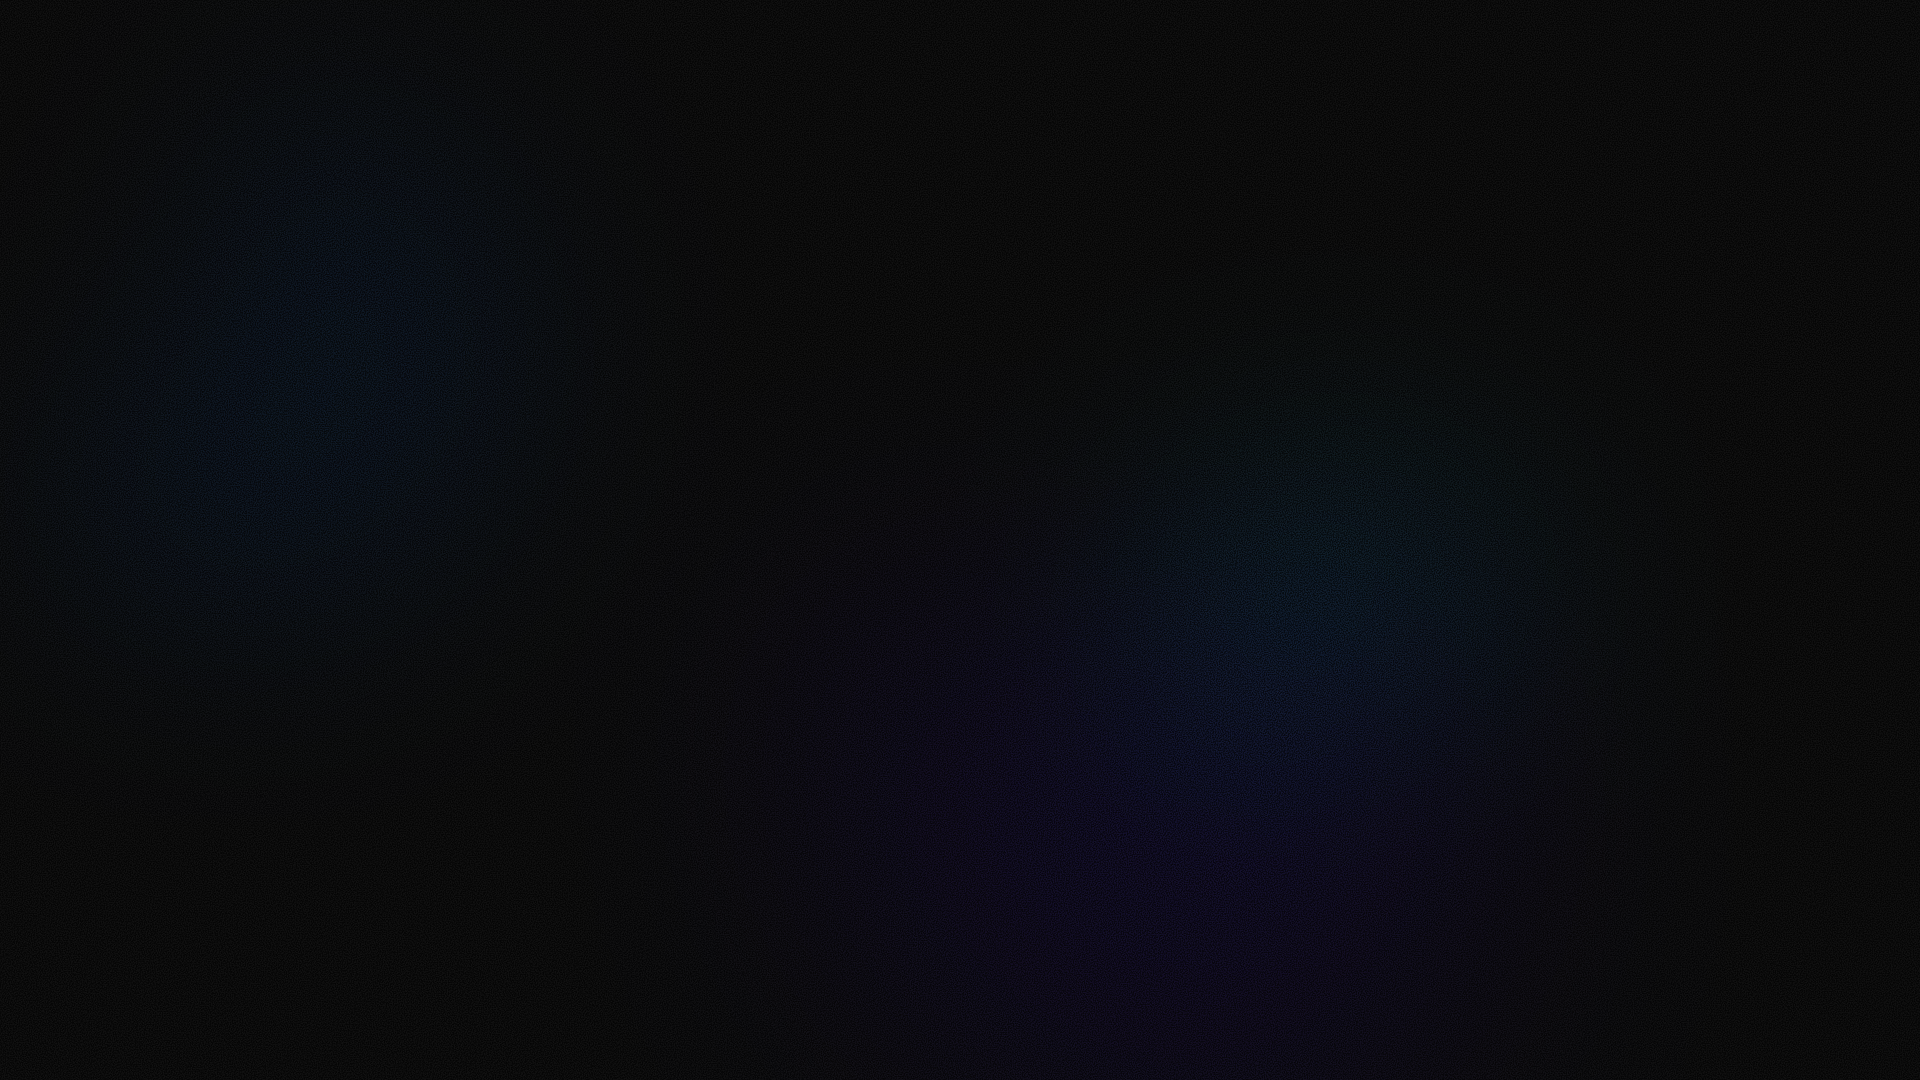
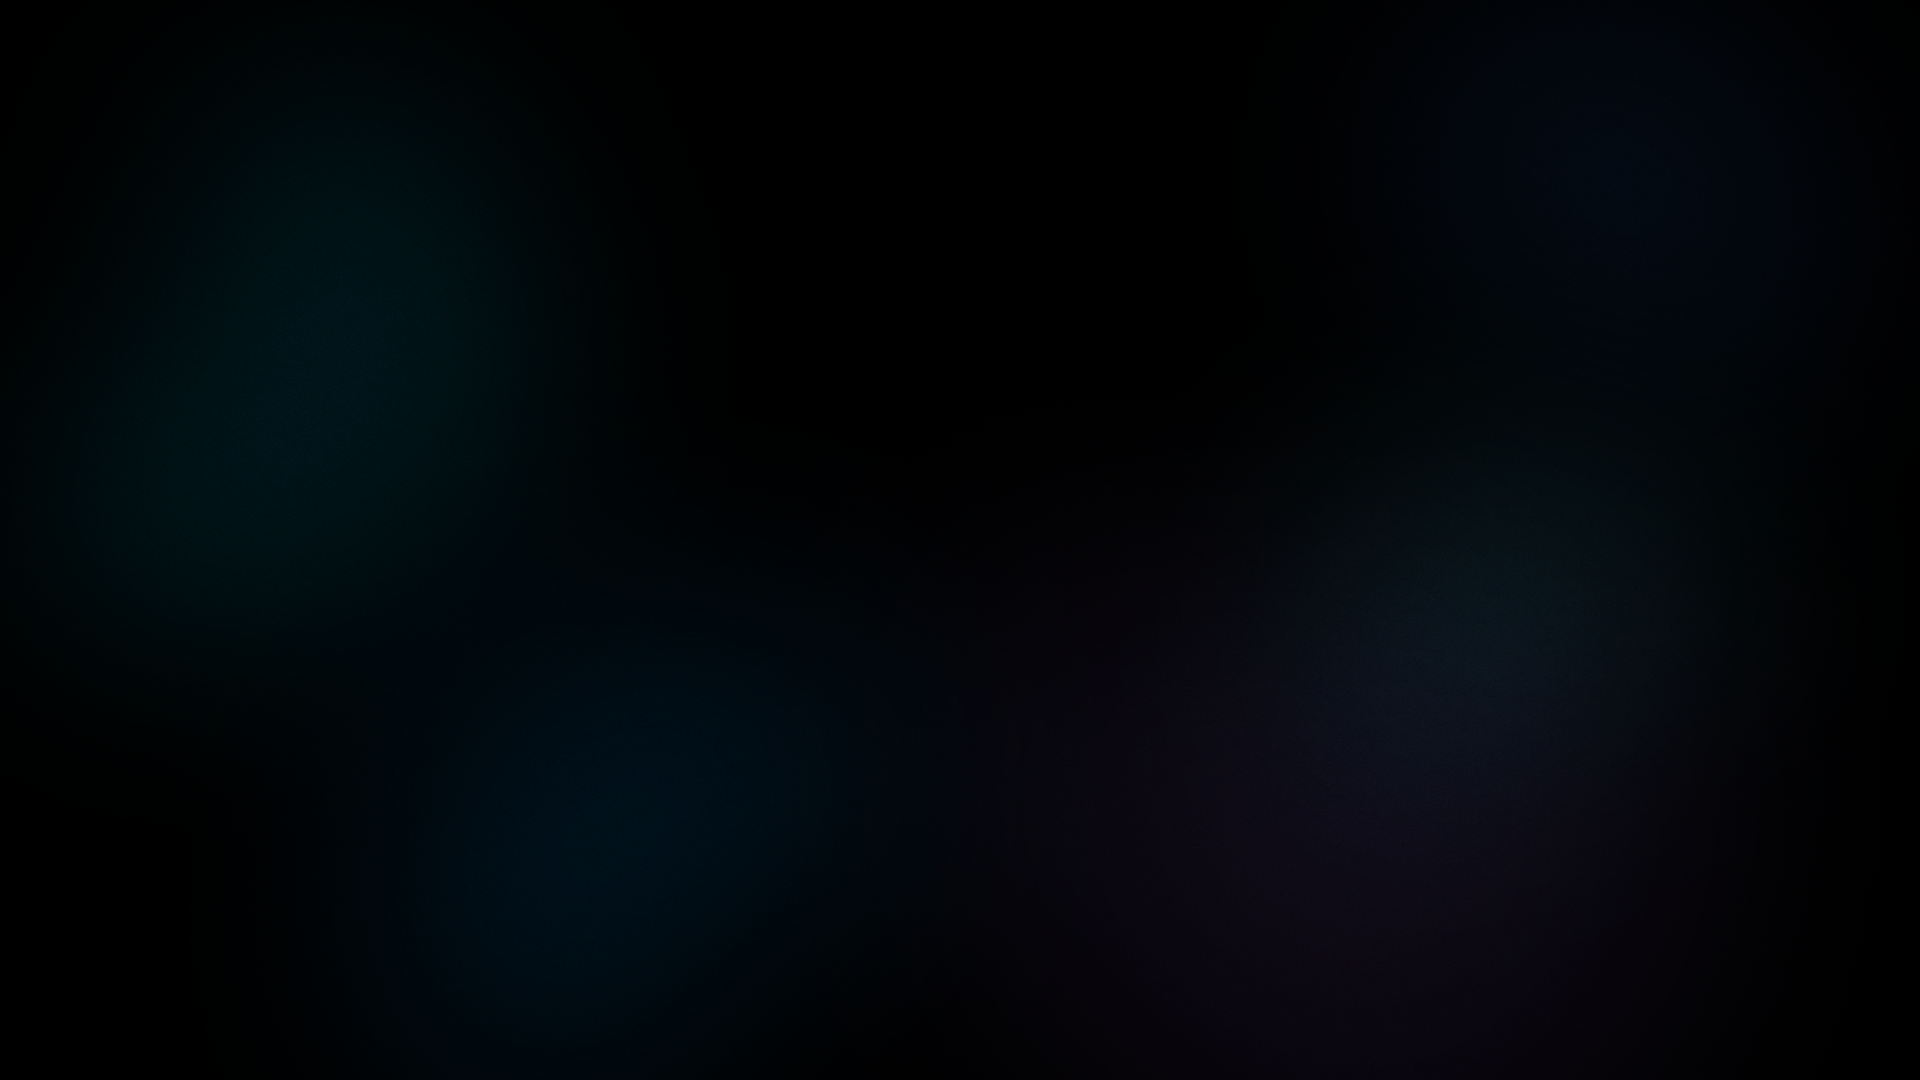
background changed, new logic for saving

Changed region(s): [[0.5, 0.4278, 0.6875, 1.0]]

diff --git a/src/components/shared/post_details_window.tsx b/src/components/shared/post_details_window.tsx
@@ -5,7 +5,7 @@ import { X } from 'lucide-react';
 import { useUser } from '../../hooks/use-roles';
 import { PostDetailsLeftPanel } from './post_details_left_panel';
 import { PostDetailsRightPanel } from './post_details_right_panel';
-import { usePost, useUpdatePost, usePatchPost, useDeletePost } from '@/hooks/usePosts';
+import { usePost, useUpdatePost, useSilentUpdatePost, usePatchPost, useDeletePost } from '@/hooks/usePosts';
 import { useAddComment, useUpdateCommentStatus, useDeleteComment } from '@/hooks/usePosts';
 import { format } from 'date-fns';
 import { ru } from 'date-fns/locale';
@@ -266,10 +266,12 @@ export const PostDetailsWindow = ({ onClose, postId }: PostDetailsWindowProps) =
   const tagDropdownRef = useRef<HTMLDivElement>(null);
   const datePickerRef = useRef<HTMLDivElement>(null);
   const overlayPointerDownRef = useRef(false);
+  const initializedPostIdRef = useRef<number | null>(null);
 
   const isAdminOrSMM = !!(user?.admin_role || user?.SMM_role);
 
   const updatePost = useUpdatePost();
+  const silentUpdatePost = useSilentUpdatePost();
   const patchPost = usePatchPost();
   const deletePostMut = useDeletePost();
   const addCommentMut = useAddComment();
@@ -284,7 +286,9 @@ export const PostDetailsWindow = ({ onClose, postId }: PostDetailsWindowProps) =
     if (!post) return;
     const prev = document.body.style.overflow;
     document.body.style.overflow = 'hidden';
-    return () => { document.body.style.overflow = prev; };
+    return () => {
+      document.body.style.overflow = prev;
+    };
   }, [post]);
 
   useEffect(() => {
@@ -310,43 +314,44 @@ export const PostDetailsWindow = ({ onClose, postId }: PostDetailsWindowProps) =
 
     const tasksFromPost = buildTasksFromPost(post);
     const social = extractSocialLinks(post);
+    const isFirstInitForThisPost = initializedPostIdRef.current !== post.post_id;
 
-    setTasks(tasksFromPost);
-    setOriginalTasks(cloneTasks(tasksFromPost));
-    setSocialLinks(social);
-    setOriginalSocialLinks({ ...social });
-    setEditedDeadline(post.post_deadline ? new Date(post.post_deadline) : null);
-    setEditedTitle(post.post_title || '');
-    setEditedDescription(post.post_description || '');
-    setEditedTzLink(post.tz_link || '');
-    setSelectedTasks(TASK_CONFIG.map(cfg => (post[cfg.needsKey] as boolean) || false));
-    setSelectedTags(post.tags || []);
     setLocalIsPublished(post.is_published);
     setLocalApprovedBy(post.approved_by || null);
     setLocalSocialLinks(social);
-  }, [post]);
 
-  useEffect(() => {
-    if (!isEditing || !post) return;
+    if (isFirstInitForThisPost) {
+      initializedPostIdRef.current = post.post_id;
 
-    setTasks(prevTasks =>
-      TASK_CONFIG
-        .filter(cfg => selectedTasks[cfg.id - 1])
-        .map(cfg =>
-          prevTasks.find(t => t.id === cfg.id) ?? {
-            id: cfg.id,
-            name: cfg.name,
-            label: cfg.label,
-            link: '',
-            required: true,
-            role: cfg.role,
-            linkKey: cfg.linkKey,
-            comments: [],
-            newCommentText: '',
-          },
-        ),
-    );
-  }, [selectedTasks, isEditing, post]);
+      setTasks(tasksFromPost);
+      setOriginalTasks(cloneTasks(tasksFromPost));
+      setSocialLinks(social);
+      setOriginalSocialLinks({ ...social });
+      setEditedDeadline(post.post_deadline ? new Date(post.post_deadline) : null);
+      setEditedTitle(post.post_title || '');
+      setEditedDescription(post.post_description || '');
+      setEditedTzLink(post.tz_link || '');
+      setSelectedTasks(TASK_CONFIG.map(cfg => (post[cfg.needsKey] as boolean) || false));
+      setSelectedTags(post.tags || []);
+      return;
+    }
+
+    if (!isEditing) {
+      setTasks(tasksFromPost);
+      setOriginalTasks(cloneTasks(tasksFromPost));
+      setSocialLinks(social);
+      setOriginalSocialLinks({ ...social });
+      setEditedDeadline(post.post_deadline ? new Date(post.post_deadline) : null);
+      setEditedTitle(post.post_title || '');
+      setEditedDescription(post.post_description || '');
+      setEditedTzLink(post.tz_link || '');
+      setSelectedTasks(TASK_CONFIG.map(cfg => (post[cfg.needsKey] as boolean) || false));
+      setSelectedTags(post.tags || []);
+      return;
+    }
+
+    setOriginalTasks(cloneTasks(tasksFromPost));
+  }, [post, isEditing]);
 
   const filteredTags = useMemo(
     () =>
@@ -424,16 +429,16 @@ export const PostDetailsWindow = ({ onClose, postId }: PostDetailsWindowProps) =
         prev.map(t => (t.id === taskId ? { ...t, link: taskLink } : t)),
       );
 
-      await updatePost.mutateAsync({
+      setOriginalTasks(prev =>
+        prev.map(t => (t.id === taskId ? { ...t, link: taskLink } : t)),
+      );
+
+      await silentUpdatePost.mutateAsync({
         postId: post.post_id,
         data: {
           [task.linkKey]: taskLink,
         },
       });
-
-      setOriginalTasks(prev =>
-        prev.map(t => (t.id === taskId ? { ...t, link: taskLink } : t)),
-      );
 
       setPendingFiles(prev => {
         const current = prev[taskId] || [];
@@ -479,7 +484,7 @@ export const PostDetailsWindow = ({ onClose, postId }: PostDetailsWindowProps) =
     editedTitle,
     editedDeadline,
     setImagesToCache,
-    updatePost,
+    silentUpdatePost,
   ]);
 
   const handleFilesCleared = useCallback((taskId: number) => {
@@ -645,8 +650,16 @@ export const PostDetailsWindow = ({ onClose, postId }: PostDetailsWindowProps) =
       setIsSaving(false);
     }
   }, [
-    post, editedTitle, editedDescription, editedTzLink, editedDeadline,
-    selectedTasks, selectedTags, tasks, updatePost, renameCacheKey,
+    post,
+    editedTitle,
+    editedDescription,
+    editedTzLink,
+    editedDeadline,
+    selectedTasks,
+    selectedTags,
+    tasks,
+    updatePost,
+    renameCacheKey,
   ]);
 
   const handleSaveChanges = useCallback(async () => {

diff --git a/src/app/page.tsx b/src/app/page.tsx
@@ -100,6 +100,13 @@ export default function HomePage() {
 
   const loading = postsLoading || tasksLoading;
 
+  const scrollToTop = () => {
+    window.scrollTo({
+      top: 0,
+      behavior: 'smooth',
+    });
+  };
+
   const handlePostsClick = () => {
     if (showPosts) {
       if (showTasks) {
@@ -111,6 +118,8 @@ export default function HomePage() {
     } else {
       setShowPosts(true);
     }
+
+    scrollToTop();
   };
 
   const handleTasksClick = () => {
@@ -124,6 +133,18 @@ export default function HomePage() {
     } else {
       setShowTasks(true);
     }
+
+    scrollToTop();
+  };
+
+  const handleIncompleteClick = () => {
+    setShowIncompleteOnly((prev) => !prev);
+    scrollToTop();
+  };
+
+  const handleOverdueClick = () => {
+    setShowOverdueOnly((prev) => !prev);
+    scrollToTop();
   };
 
   const isPostCompleted = (status: string) => ['Завершен', 'Завершено'].includes(status);
@@ -237,6 +258,7 @@ export default function HomePage() {
   const handleRoleSelect = (role: string | null) => {
     setRoleFilter(role);
     setIsRoleDropdownOpen(false);
+    scrollToTop();
   };
 
   if (loading && allPosts.length === 0 && allTasks.length === 0) {
@@ -272,7 +294,7 @@ export default function HomePage() {
         </button>
 
         <button
-          onClick={() => setShowIncompleteOnly(!showIncompleteOnly)}
+          onClick={handleIncompleteClick}
           className={`${styles.filterButton} ${
             showIncompleteOnly ? styles.filterButtonActive : styles.filterButtonInactive
           }`}
@@ -281,7 +303,7 @@ export default function HomePage() {
         </button>
 
         <button
-          onClick={() => setShowOverdueOnly(!showOverdueOnly)}
+          onClick={handleOverdueClick}
           className={`${styles.filterButton} ${
             showOverdueOnly ? styles.filterButtonActive : styles.filterButtonInactive
           }`}
@@ -291,7 +313,10 @@ export default function HomePage() {
 
         <div className={styles.roleDropdown} ref={roleDropdownRef}>
           <button
-            onClick={() => setIsRoleDropdownOpen(!isRoleDropdownOpen)}
+            onClick={() => {
+              setIsRoleDropdownOpen(!isRoleDropdownOpen);
+              scrollToTop();
+            }}
             className={styles.roleDropdownButton}
           >
             <img

diff --git a/src/hooks/usePosts.ts b/src/hooks/usePosts.ts
@@ -130,11 +130,45 @@ export const useUpdatePost = () => {
   });
 };
 
+export const useSilentUpdatePost = () => {
+  const queryClient = useQueryClient();
+
+  return useMutation({
+    mutationFn: async ({ postId, data }: { postId: number; data: any }) => {
+      const res = await fetch('/api/posts/update', {
+        method: 'PUT',
+        headers: { 'Content-Type': 'application/json' },
+        body: JSON.stringify({ postId, data }),
+      });
+
+      if (!res.ok) {
+        const error = await res.json();
+        throw new Error(error.error || 'Ошибка обновления поста');
+      }
+
+      return res.json();
+    },
+    onSuccess: () => {
+      queryClient.invalidateQueries({ queryKey: ['posts'] });
+    },
+  });
+};
+
 export const usePatchPost = () => {
   const queryClient = useQueryClient();
 
   return useMutation({
-    mutationFn: async ({ postId, action, social, link }: { postId: number; action: string; social?: string; link?: string }) => {
+    mutationFn: async ({
+      postId,
+      action,
+      social,
+      link,
+    }: {
+      postId: number;
+      action: string;
+      social?: string;
+      link?: string;
+    }) => {
       const res = await fetch('/api/posts/update', {
         method: 'PATCH',
         headers: { 'Content-Type': 'application/json' },
@@ -182,7 +216,15 @@ export const useAddComment = () => {
   const queryClient = useQueryClient();
 
   return useMutation({
-    mutationFn: async ({ postId, taskTypeId, text }: { postId: number; taskTypeId: number; text: string }) => {
+    mutationFn: async ({
+      postId,
+      taskTypeId,
+      text,
+    }: {
+      postId: number;
+      taskTypeId: number;
+      text: string;
+    }) => {
       const res = await fetch('/api/posts/comments', {
         method: 'POST',
         headers: { 'Content-Type': 'application/json' },
@@ -196,7 +238,7 @@ export const useAddComment = () => {
 
       return res.json();
     },
-    onSuccess: (data, variables) => {
+    onSuccess: (_, variables) => {
       queryClient.invalidateQueries({ queryKey: ['post', variables.postId] });
       queryClient.invalidateQueries({ queryKey: ['posts'] });
     },

diff --git a/src/components/shared/task_details_window.tsx b/src/components/shared/task_details_window.tsx
@@ -1,7 +1,7 @@
 'use client';
 
 import { useState, useEffect, useCallback, useRef, useMemo } from 'react';
-import { X, Calendar, User, Edit, Trash2, Save, Users } from 'lucide-react';
+import { X, Calendar, User, Edit, Trash2, Save, Users, Edit2 } from 'lucide-react';
 import { useUser } from '@/hooks/use-roles';
 import { Task } from '../../../types/task';
 import { AutoResizeTextarea } from '../ui/auto_resize_textarea';
@@ -735,7 +735,7 @@ export const TaskDetailsWindow = ({ onClose, task }: TaskDetailsWindowProps) => 
                   disabled={isLoading.action}
                   className={styles.button}
                 >
-                  <Edit className="w-4 h-4" /> Изменить
+                  <Edit2 className="w-4 h-4" /> Изменить
                 </button>
                 {canDelete && (
                   <button

diff --git a/src/components/shared/file_uploader.tsx b/src/components/shared/file_uploader.tsx
@@ -111,7 +111,7 @@ export const FileUploader = ({
   const showInvalidFilesAlert = (invalidFiles: File[]) => {
     if (invalidFiles.length === 0) return;
     const names = invalidFiles.map(file => file.name).join(', ');
-    alert(`Допускается загрузка только изображений разрешённых форматов.\n\nОтклонены файлы: ${names}`);
+    alert(`Допускается только загрузка изображений.\n\nОтклонены файлы: ${names}`);
   };
 
   const processFiles = (files: File[]) => {

diff --git a/src/components/shared/post_details_left_panel.tsx b/src/components/shared/post_details_left_panel.tsx
@@ -449,7 +449,7 @@ export const PostDetailsLeftPanel = ({
             className={`${styles.button} ${styles.buttonBlue}`}
           >
             <Save className="w-4 h-4" />
-            Сохранить изменения
+            Сохранить
           </button>
         )}
 
@@ -459,7 +459,7 @@ export const PostDetailsLeftPanel = ({
             className={`${styles.button} ${styles.buttonGray}`}
           >
             <Edit2 className="w-4 h-4" />
-            Редактировать
+            Изменить
           </button>
         )}
 

diff --git a/src/components/styles/CalendarPage.module.css b/src/components/styles/CalendarPage.module.css
@@ -71,7 +71,7 @@
   min-width: 440px;
   max-width: 440px;
   transition: transform 0.5s ease-in-out, opacity 0.5s ease-in-out;
-  will-change: transform, opacity;
+  will-change: transform;
   position: absolute;
   right: 0;
   top: 0;
@@ -369,7 +369,7 @@
   right: 0;
   width: 14rem;
   background: linear-gradient(90deg, rgba(255, 255, 255, 0.05) 0%, rgba(255, 255, 255, 0.1) 100%);
-  backdrop-filter: blur(2px);
+  backdrop-filter: blur(20px);
   border: 1px solid #ffffff10;
   border-radius: 20px;
   padding: 0.25rem 0;

diff --git a/src/app/api/posts/update/route.ts b/src/app/api/posts/update/route.ts
@@ -283,10 +283,6 @@ export async function PUT(request: NextRequest) {
         }
       }
 
-      if (existingPost.approved_by_id) {
-        updateData.approved_by_id = null;
-      }
-
       const updatedPost = await prisma.post.update({
         where: { post_id: Number(postId) },
         data: updateData,
